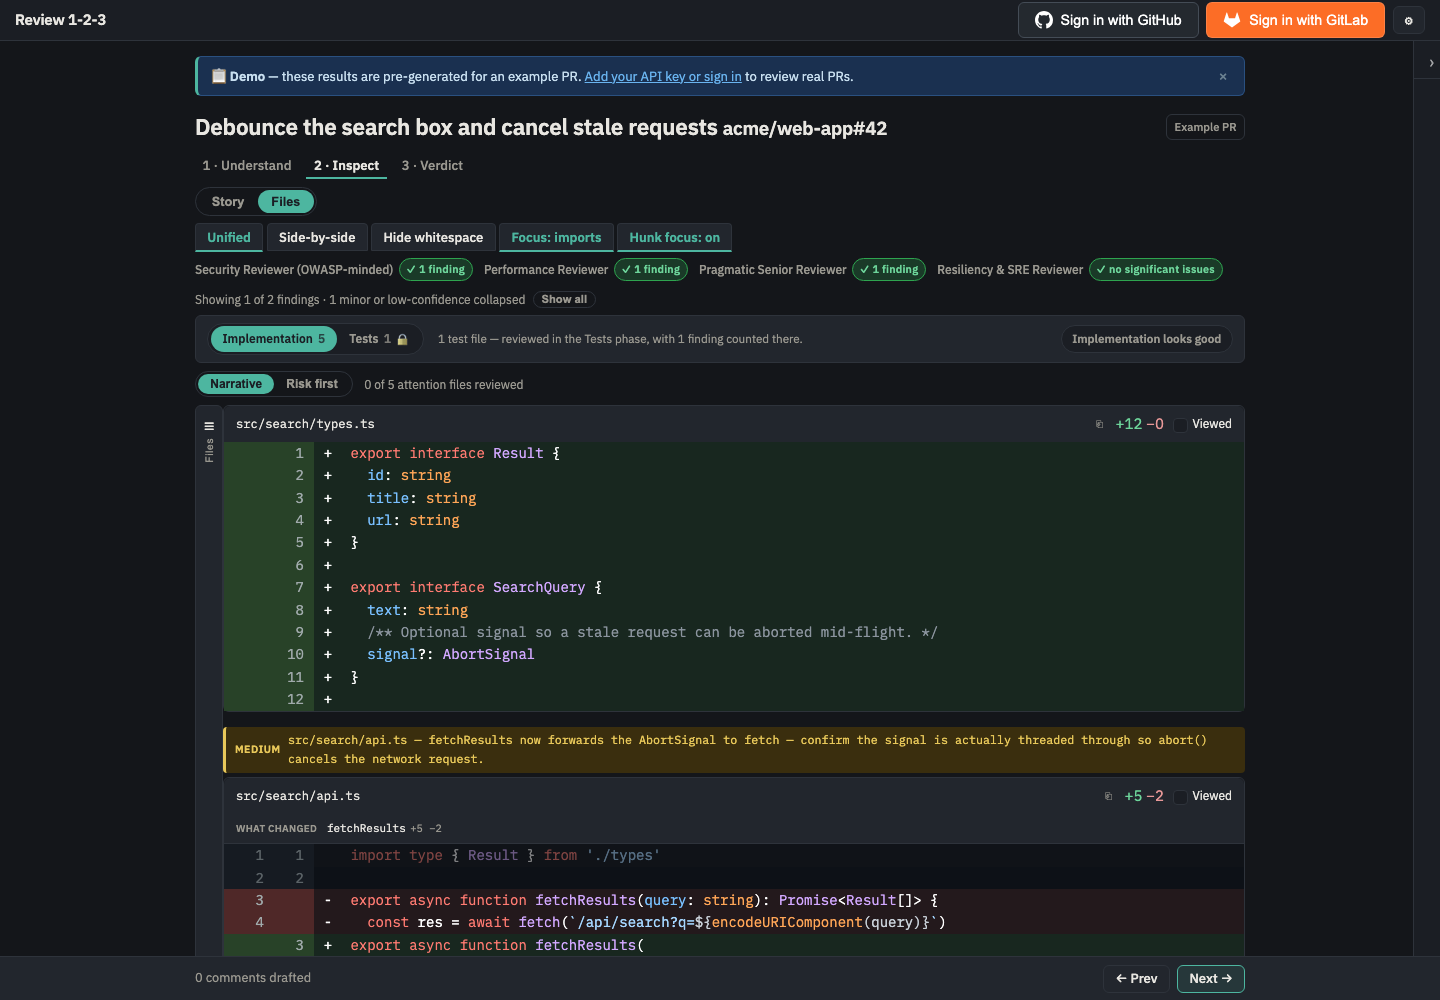
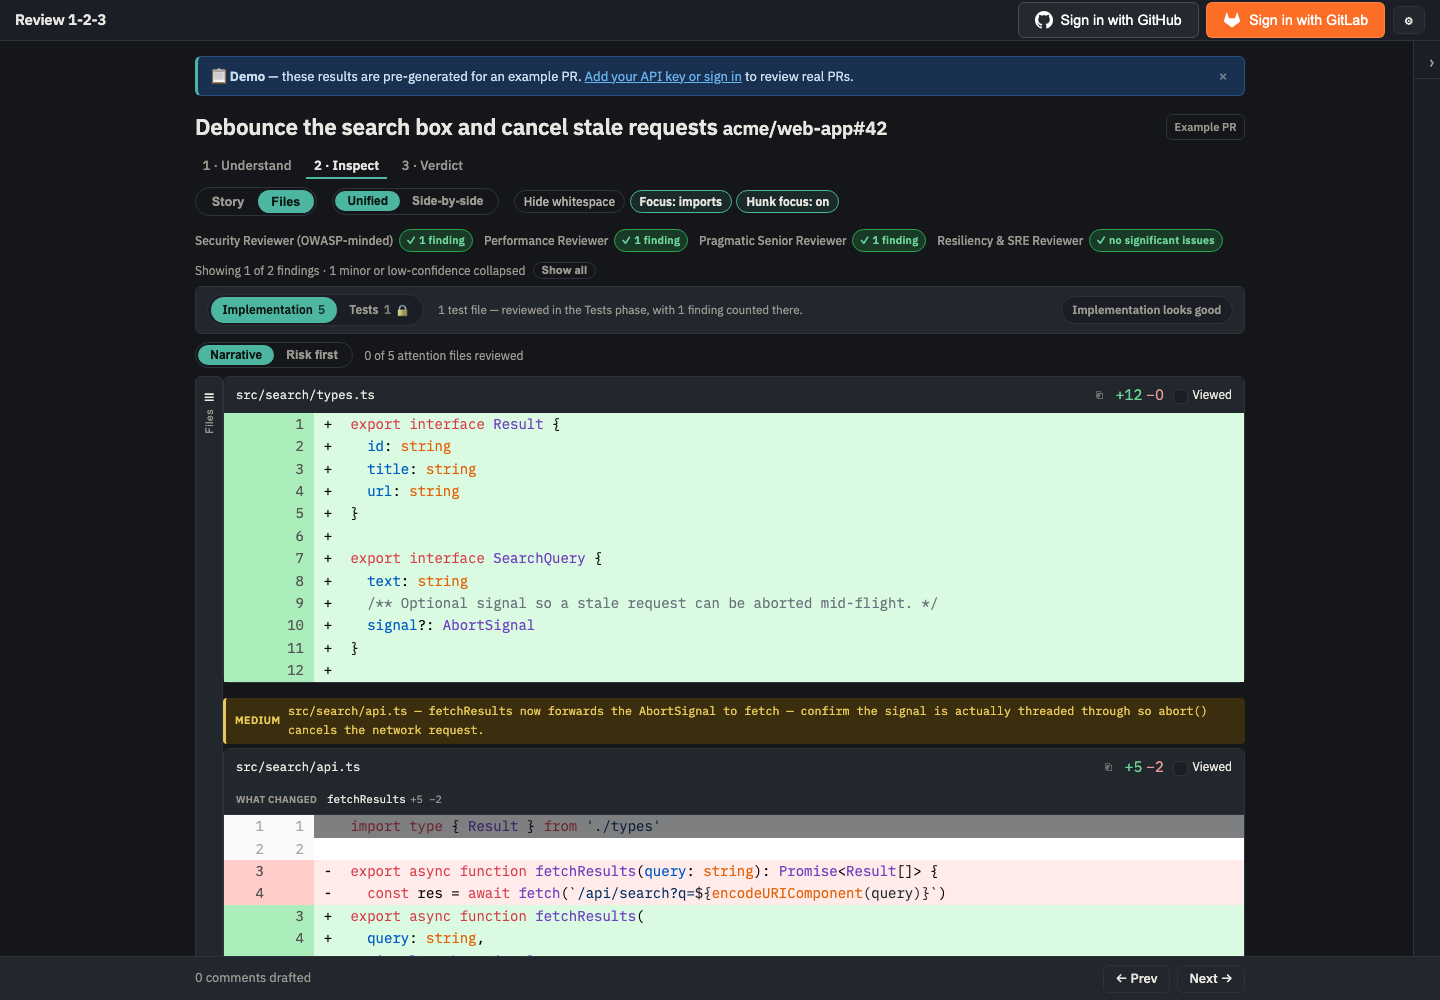
docs(design): record Batch 2C as shipped, and re-capture the affected shots
Adds "Batch 2C — as shipped" to the refactor plan, in the same shape as the
Phase 1 record: what each of the five items actually delivered, the numbers
taken from the built app rather than from CSS, and an honest deferred list.

Three things worth reading:

1. It CORRECTS ui-audit F8. The audit recorded 4px inside the view-mode pair
   against 3px between unrelated controls. Measured sub-pixel, every gap in
   that row was the same 3.55px — a collapsed whitespace text node, not a
   declared gap. The 4-vs-3 was integer rounding of one value, so the defect
   was not "inverted grouping" but NO grouping: around-to-inside was 1.0.

2. Item 4 (the 663px column) is decided AGAINST widening, with the measurements
   that settle it: the column is 74ch, and the widest paragraphs in it already
   render at ~86ch — above the comfortable measure, not below it. Using the
   550px of spare horizontal room would put them near 140ch. And the 6,069px
   height is not a width problem: #ai-models alone is 2,578px, 42% of the page.
   If revisited, the move is a two-column control grid inside a still-narrow
   prose measure — a Batch 2A/2B decision about those components, not a wider
   page shell.

3. Stepper.svelte and ContextRail.svelte were in this batch's file list and were
   NOT changed. Recorded as untouched with the reason, rather than quietly
   omitted.

Shots re-captured at the same route and viewport as the existing set (1440x1000
[…]

diff --git a/docs/design/ui-refactor-plan.md b/docs/design/ui-refactor-plan.md
@@ -4,13 +4,16 @@ Companion to [`ui-audit.md`](./ui-audit.md) (the findings, `F1`-`F18`) and
 [`refactoring-ui-principles.md`](./refactoring-ui-principles.md) (the rubric and
 its page refs).
 
-**Status: Phase 1 shipped; Phases 2 and 3 are still proposals.**
+**Status: Phase 1 shipped. Phase 2 in progress — Batch 2C shipped. Phase 3 is
+still a proposal.**
 
 Phase 1 landed as one PR — see [Phase 1 — as shipped](#p1-shipped) for what
 changed against what this document proposed, and for the measurements taken from
-the built app rather than from the token values. The screenshots in
-[`./shots/`](./shots/) are now the **after** state; the before state is in git
-history at commit `38b9e9a`.
+the built app rather than from the token values. Batch 2C followed — see
+[Batch 2C — as shipped](#b2c-shipped). The screenshots in [`./shots/`](./shots/)
+are the **after** state of the most recent batch to touch each surface; the
+pre-Phase-1 state is in git history at commit `38b9e9a`, and the pre-Batch-2C
+state of the settings page and the Inspect step at commit `038e6d4`.
 
 Every token value in Phases 2 and 3 remains *proposed and measured*, not applied.
 
@@ -465,6 +468,186 @@ language, which is what makes it reviewable.
    highest-value single fix in Phase 2. Group `Unified`/`Side-by-side` as one
    segmented control with no internal gap, put a scale-step gap between groups, and
    rank the seven control rows so the reader's eye reaches the code.
+
+<a id="b2c-shipped"></a>
+
+### Batch 2C — as shipped
+
+Shipped as one PR, three commits along the item seams: the outline (zero
+rendered pixels), the nav and heading spacing, then the Inspect toolbar. Every
+number below was taken with `getComputedStyle` in the **built** app at
+1440×1000 in both themes — the audit's numbers came from the browser, so these
+do too. Screenshots re-captured: `settings-models-*`, `step2-inspect-unified-*`,
+`step2-inspect-split-*` and `focus-dim-*` (the last two pairs are the same
+capture; `focus-dim` is byte-identical to `step2-inspect-unified` and always
+was). The other six shots are untouched because Batch 2C did not reach them.
+
+**Item 1 — semantic headings ([F13](./ui-audit.md#f13), rubric D1). Done, and
+provably pixel-neutral.**
+
+Six `<p class="section-label">` became `<h2>`; four sub-titles became `<h3>`
+(`Built-in reviewers`, `Generate from my reviews`, `What runs (and how deep)`,
+`Model panel`). `StandingRulesSection`'s existing per-group `<h3>` therefore
+stops being a level with no `<h2>` above it. The outline is now
+`h1 → 6×h2 → h3`, where it was a single `h1` for ~6,000px of page.
+
+`letter-spacing: normal` is pinned on those rules: `app.css`'s global `h2`/`h3`
+tighten it to `-0.01em`, and the brief for this item was "no visual change".
+Before/after in the built app: font-size 13.5px, weight 600, every above/below
+gap, every section's scroll top and the page height (6069px) are identical.
+
+**Item 2 — nav emphasis ([F3](./ui-audit.md#f3), p.30-31, p.142). Done.**
+
+Phase 1 made the active item legal (3.47 → 4.31:1) but not *emphatic*: it was
+still the least-contrasted item in a list of six. The accent now carries the
+indicator instead of the label — the left bar (2px → 3px, 65% → 70%) and the
+tint stay accent, the label takes `--text` at 600 weight.
+
+| | active before | active after | inactive | active ÷ inactive |
+|---|---|---|---|---|
+| light | 4.31:1 | **13.07:1** | 5.08:1 | 0.85× → **2.57×** |
+| dark | 6.08:1 | **12.03:1** | 6.27:1 | 0.97× → **1.92×** |
+
+**Item 3 — heading spacing (rubric D2, p.85). Done where it was actually
+broken.**
+
+Measured visual gaps, above / below:
+
+| heading | before | after |
+|---|---|---|
+| `Providers & access` | 15 / 13.5 (1.1:1) | 15 / 6 (**2.5:1**) |
+| `Built-in reviewers` | 11.3 / 6 (1.9:1) | 18.8 / 6 (**3.1:1**) |
+| `What runs (and how deep)` | 22.8 / 4.5 (5.1:1) | 27.3 / 4.5 (**6.1:1**) |
+| standing-rules group title | 13.5 / 6 (2.25:1) | 17.3 / 6 (**2.9:1**) |
+
+`Providers & access` was the real violation and it was invisible in the CSS: as
+a `<p>`, `.auth-status` carried the UA `1em` top margin, which **collapsed**
+with the heading's own `0.4rem` bottom margin and all but erased the difference
+between above and below. `margin-top: 0` is the whole fix.
+
+The six top-level `<h2>`s already passed — 15px of card padding above (plus
+22.5px of inter-card gap outside the border) against 6px below, 2.5:1 — and are
+deliberately left alone. Not churning them also keeps every section's scroll top
+where `e2e/settings.spec.ts`'s scrollspy assertions expect it.
+
+<a id="b2c-item4"></a>
+
+**Item 4 — the 663px column. Decided AGAINST widening. Here is the evidence.**
+
+The measurements that settle it:
+
+- the content column is **663px = 74ch** at the body size — the top of the
+  45-75ch comfortable measure, not below it;
+- the **widest paragraphs in it already render at ~86ch** (623px at 12-12.75px:
+  the bridge explainer, the model-panel explainer, the key-storage note). The
+  column is not too narrow for its prose; it is marginally too wide already;
+- using the 550px of unused horizontal room would put those paragraphs near
+  **140ch**, a straightforward p.68-70 violation;
+- and the height is not a width problem. `#ai-models` alone is **2,578px, 42%
+  of the 6,069px page**. Widening the column might shave ~15% off that. Ranking
+  and collapsing those sections is the real fix, and it belongs to Batches 2A
+  and 2B, which own the form primitives and the panels.
+
+p.71 warns against cramming content into a small area to look compact. 663px of
+stacked form fields at 74ch is not cramped, and p.68-70's prescription for a
+narrow component lost in a wide area is to **split it into columns, not stretch
+it** — which this is not, being a centred document with a sticky section nav,
+the conventional and correct shape for a settings page.
+
+**If this is revisited**, the move is a two-column *control grid* (the six
+provider cards, the per-task mode matrix, the model panel rows) inside a prose
+measure that stays narrow — not a wider page. That is a Batch 2A/2B decision
+about those components, not a page-shell decision, so it is recorded here and
+left to them.
+
+**Item 5 — the Inspect toolbar ([F8](./ui-audit.md#f8),
+[F9](./ui-audit.md#f9)). Done, and F8's measurement is corrected.**
+
+> **Correction to [F8](./ui-audit.md#f8).** The audit recorded 4px inside the
+> view-mode pair against 3px between unrelated controls. Measured sub-pixel,
+> **every gap in that row was the same 3.55px** — a collapsed whitespace text
+> node between `inline-flex` children of a `display: block` container, not a
+> declared gap anywhere. The 4-vs-3 was integer rounding of one value. The
+> defect is therefore worse than "inverted": the grouping was **absent**, the
+> ratio of around-to-inside was exactly 1.0, and the row could only read as five
+> peer buttons.
+
+`Unified | Side-by-side` is now a segmented pill — the treatment `.flow-switch`,
+`.sort-switch` and `.phase-switch` already used, so the row finally speaks one
+language: **a pill is a mutually exclusive choice, a bordered button is an
+independent switch.**
+
+| measured gap | before | after |
+|---|---|---|
+| inside the view-mode pair | 3.55px | **0px** |
+| inside the three toggles | 3.55px | **4.5px** |
+| pair → toggles (between groups) | 3.55px | **15px** |
+| `Story\|Files` → pair (between groups) | *(different row)* | **15px** |
+
+Space around a group is now **3.3× the space inside it** (p.83, p.86).
+
+**Ranking the seven rows** (p.30-31: de-emphasise the secondary, do not enlarge
+the important). Three tiers:
+
+| tier | rows | treatment |
+|---|---|---|
+| **1 — decisions that change what you see** | the stepper; the phase bar (`Implementation`/`Tests`, which scopes the file set and carries the approval) | untouched. The phase bar is the only filled, bordered row and should be. |
+| **2 — reading preferences** | `Story\|Files`, diff layout, the three view toggles, the sort switch | `Story\|Files` and the diff controls answer one question, so they are **one row now, not two**. The toggles lose the filled `--surface-raised` ground and the 700-weight accent underline: they are preferences you set once. |
+| **3 — status, never a control** | the reviewer chips, the findings-triage line | left as muted text |
+
+**Seven rows → six; chrome before the first line of code 260px → 231px.**
+
+Two things fell out of making `.mode-toggle` a real flex row:
+
+1. `run-reviewers-btn { margin-left: auto }` was **dead CSS** under
+   `display: block`. "Run my reviewers" now sits at the right edge it was
+   written for.
+2. Four `color: var(--surface, #fff)` declarations on `background: var(--accent)`
+   fills (the flow, mode, phase and sort pills) converge onto `--on-accent`.
+   Phase 1 grepped for the `#0a1410` literal and missed this spelling of the
+   same bug. Light is unchanged (both resolve to white, 5.21:1); dark goes
+   **6.81 → 7.60:1**.
+
+Every accent-fill ink in the row now measures 5.21:1 light / 7.60:1 dark; the
+demoted toggles 7.59:1 off and 13.07:1 on in light, 8.45 / 12.03:1 in dark.
+
+**Verification that shipped with it:**
+
+- `src/routes/SettingsPage.test.ts` — three outline assertions: the six `<h2>`s
+  in nav order, exactly one `<h2>` per section element with no `p.section-label`
+  surviving, and every `<h3>` inside a section that has an `<h2>`. A section
+  added later as a `<p>` fails them.
+- `e2e/settings.spec.ts` — two gates (light + dark) that composite the **real**
+  rendered colours, translucent tint over its true ground, and assert the
+  *ordering* rather than a hardcoded ratio: the active item clears AA,
+  out-contrasts its siblings by >1.5×, and carries both the heavier weight and
+  the indicator bar. A palette change that re-inverts them fails here.
+- `e2e/focus-mode.spec.ts` — a gate that measures the **rendered geometry** of
+  the toolbar and asserts around > inside with no hardcoded pixel value, so a
+  restyle that re-flattens the row fails whatever the scale step turns out to be.
+- `src/components/InspectStep.test.ts` — four structural tests replace the two
+  that asserted "`Unified` has class `btn`". They assert the grouping instead:
+  the pair is its own `role="group"` with exactly those two buttons, the three
+  toggles are a disjoint group, the pills carry the pill class, and the flow
+  switch shares the view bar.
+
+**Deferred out of Batch 2C, deliberately:**
+
+- **Widening the settings column** — see [item 4](#b2c-item4). The follow-up, if
+  any, is a two-column control grid owned by Batches 2A/2B, not a wider page.
+- **`Stepper.svelte` and `ContextRail.svelte`** were listed in this batch's files
+  and were **not changed**. The stepper is Tier 1 and is already the most
+  prominent chrome row on the Inspect step; the context rail is collapsed to a
+  27px off-canvas tab and is not one of the seven rows. Neither needed a change
+  for items 1-5, and neither got one for its own sake.
+- **The inactive `.mode-btn`** reads 5.08:1 at `--text-muted`, matching the three
+  pill switches it now stands beside exactly. That is consistency, not a
+  measurement: if the pill language is ever re-toned, all four move together.
+- **The remaining `--surface-raised` call sites.** The view toggles dropped
+  theirs; Phase 1's [P1-5](#p1-5) deferral otherwise stands.
+- **[F18](./ui-audit.md#f18) (four font weights)** is untouched. This batch adds
+  no new weight — 500, 600 and 700 were all already in use — but it does not
+  reduce the count either. That is Batch 2D's scale work.
 
 ### Batch 2D — the scales themselves
 
